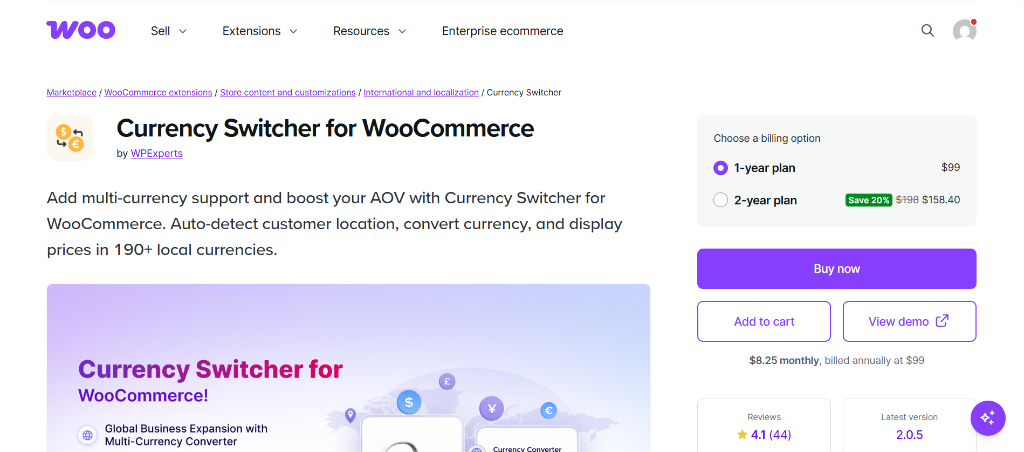
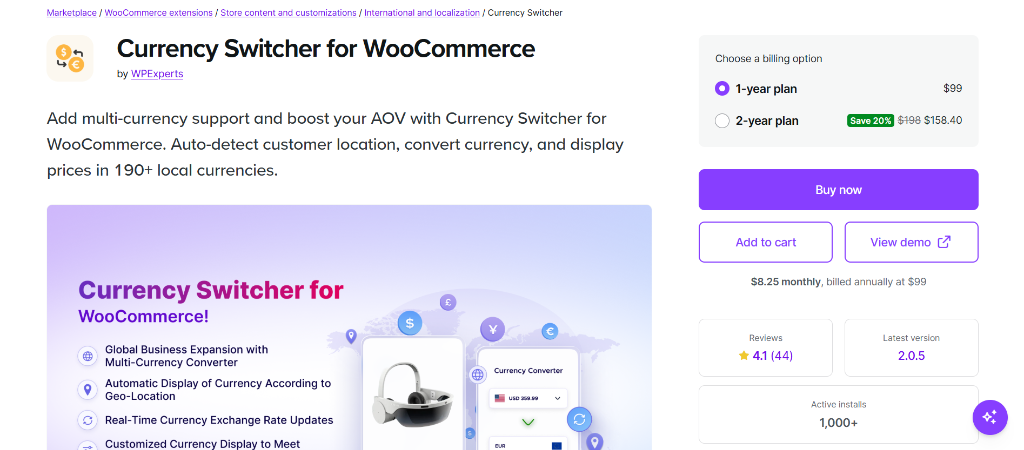
Update WooCommerce marketplace screenshots for Currency Switcher, Donation, and Wholesale plugins with active install stats

diff --git a/lib/data.ts b/lib/data.ts
@@ -151,12 +151,12 @@ export const allProjects: Project[] = [
     subtitle: "B2B Ecommerce Marketplace Plugin",
     description: "Enterprise B2B wholesale pricing, custom user role management, and bulk order workflows for WooCommerce.com.",
     category: "wordpress",
-    tags: ["WooCommerce.com", "B2B", "5,000+ Stores"],
+    tags: ["WooCommerce.com", "B2B", "4,000+ Stores"],
     demo: "https://woocommerce.com/products/wholesale-for-woocommerce/",
     image: "/wholesale.png",
     highlights: [
       "Cut B2B checkout time by 40% with bulk order forms, multi-tiered wholesale pricing rules, and automated tax-exemption roles.",
-      "Scales across 5,000+ active WooCommerce B2B merchant stores globally on the official WooCommerce marketplace.",
+      "Scales across 4,000+ active WooCommerce B2B merchant stores globally on the official WooCommerce marketplace.",
       "Eliminated manual admin overhead by engineering rule-based registration approval and auto-role assignment workflows."
     ],
   },
@@ -165,7 +165,7 @@ export const allProjects: Project[] = [
     subtitle: "Fundraising & Subscription Extension",
     description: "Empower stores to accept recurring donations, goal progress bars, and checkout change round-ups.",
     category: "wordpress",
-    tags: ["WooCommerce.com", "Fundraising", "$1M+ Processed"],
+    tags: ["WooCommerce.com", "Fundraising", "2,000+ Installs"],
     demo: "https://woocommerce.com/products/donation-product-for-woocommerce/",
     image: "/donation.png",
     highlights: [
